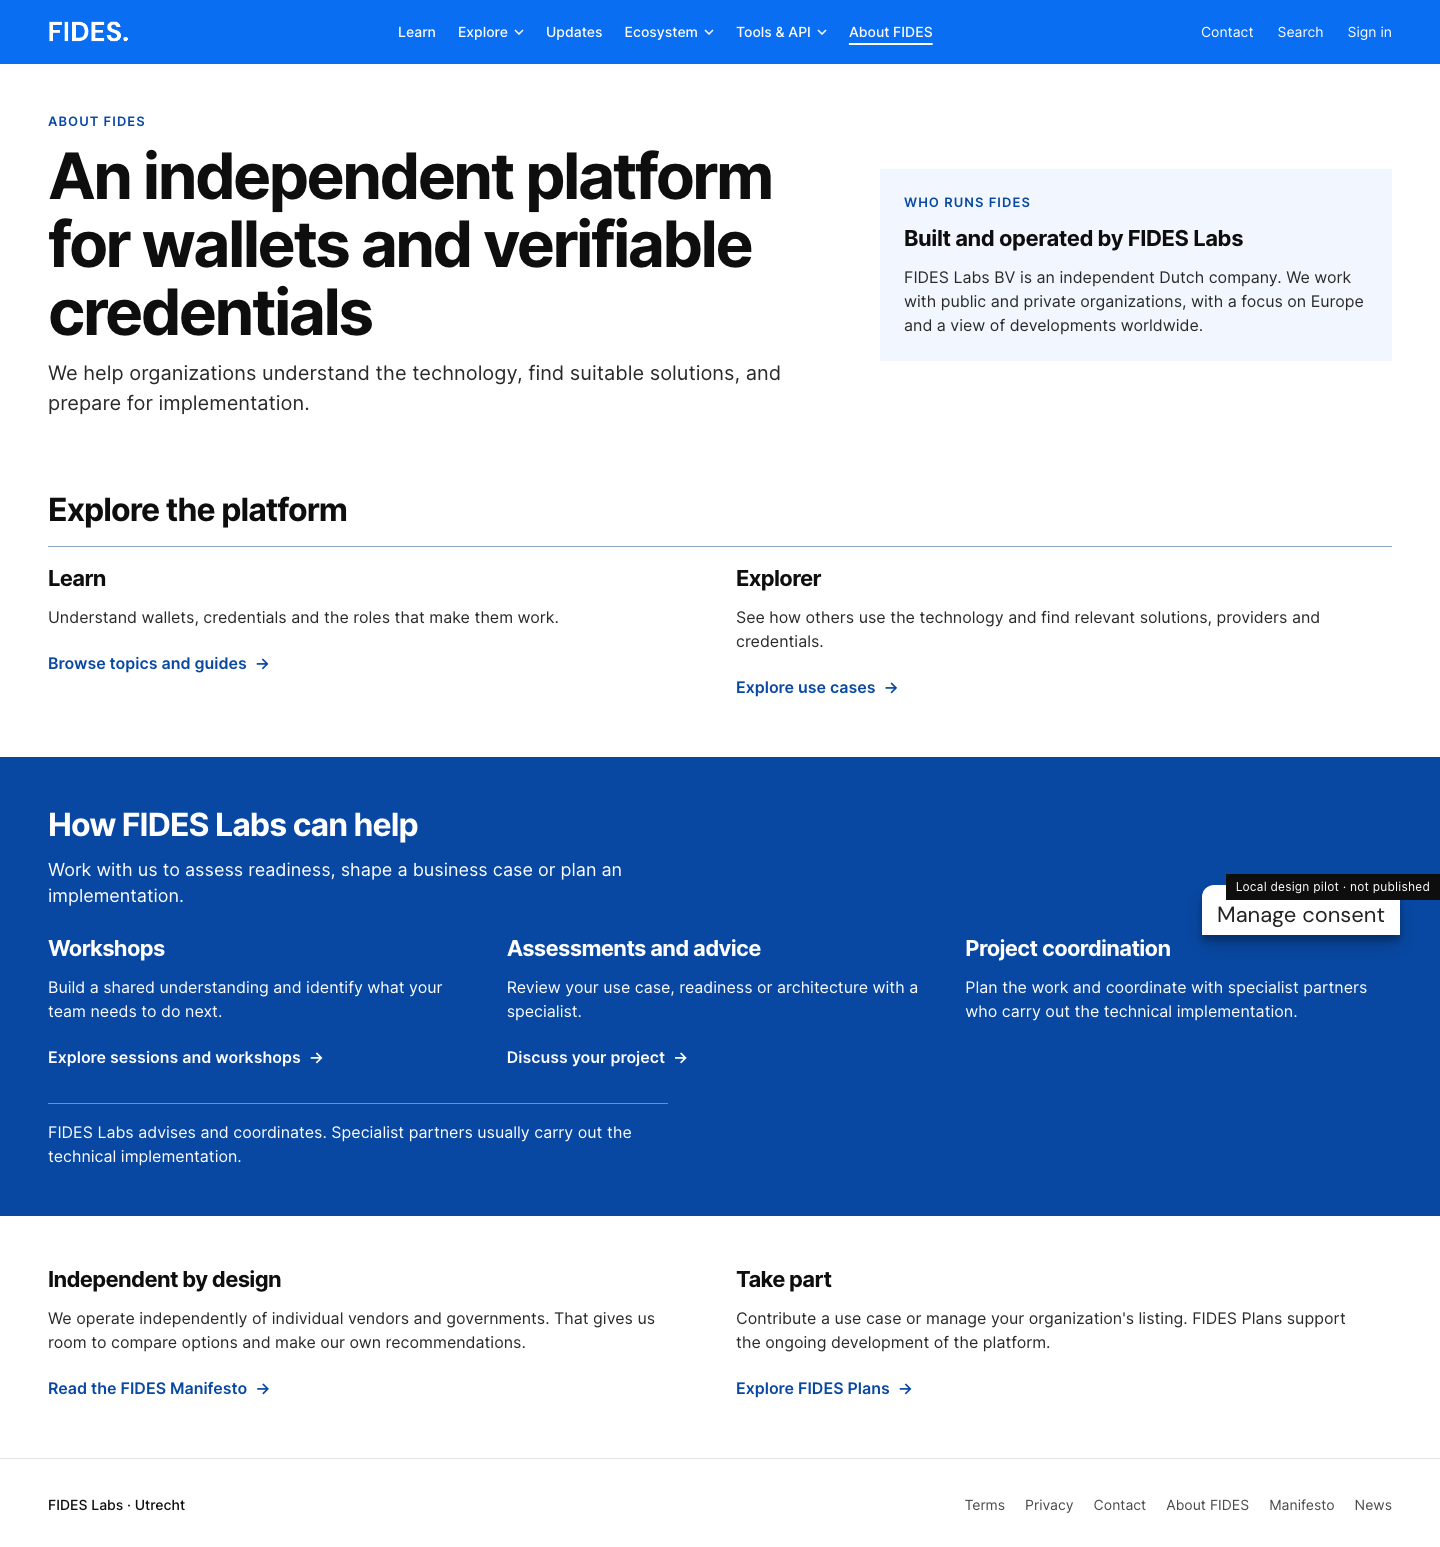
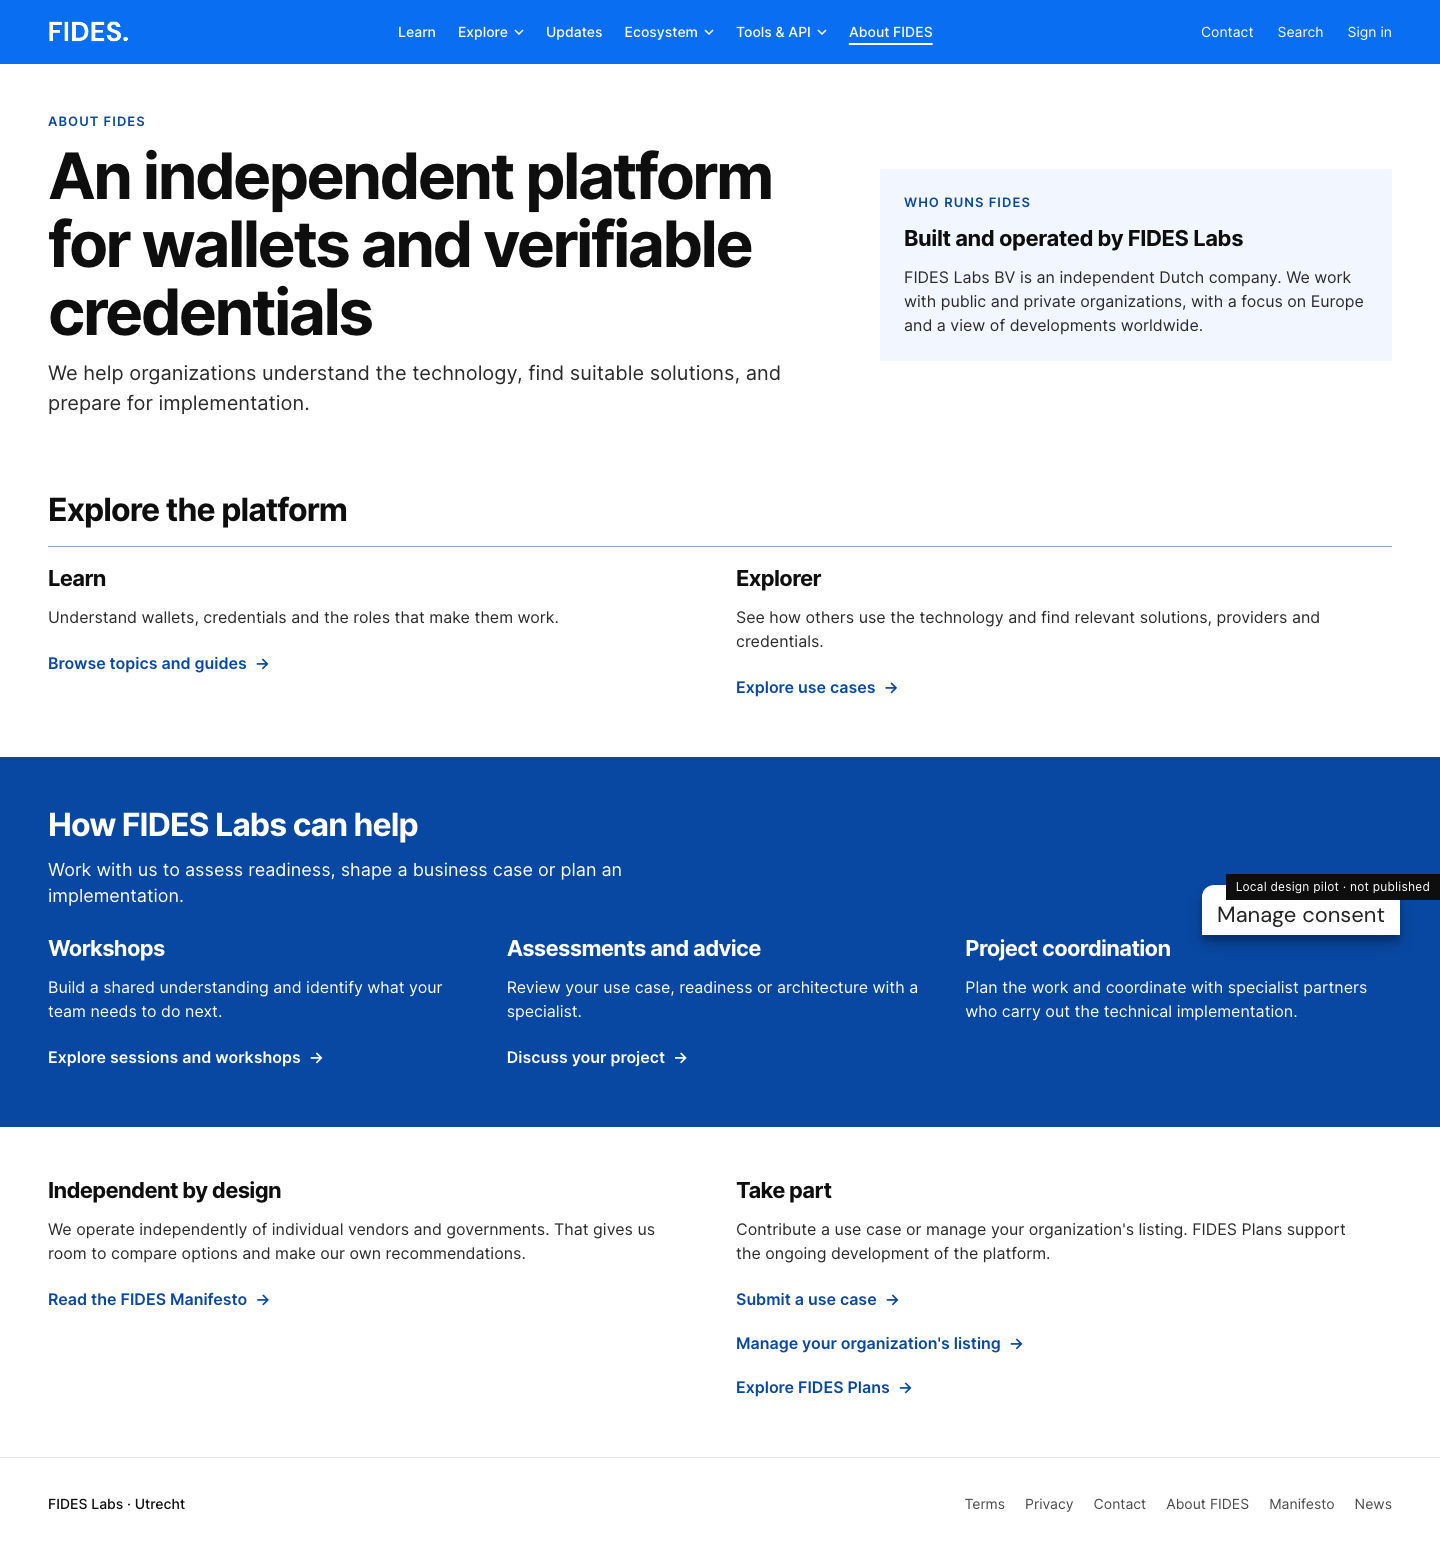
Pilot: About checks for compact title and Take part links

diff --git a/scripts/design-pilot/learn/README.md b/scripts/design-pilot/learn/README.md
@@ -244,5 +244,5 @@ Order under the hero: Learn strip, theme index, latest updates.
 ## About FIDES (Paper 27.1)
 
 - Page `/fides-design-pilot/about-fides/` with the shortcode `[fides_about]` (tiles `Fides_DS_About`, `assets/about.css`); the shell path `/about-fides/` (menu and footer) maps to it in the pilot guard.
-- Destinations go through the shell resolver: Topics & guides and Sessions & workshops and the use case overview are pilot pages; Contact, Manifesto and Plans have no pilot page and resolve to the live fides.community paths. A destination that resolves to nothing is omitted, not linked.
+- Destinations go through the shell resolver: Topics & guides and Sessions & workshops and the use case overview are pilot pages; Submit a use case and Manage your organization's listing go to the pilot forms. Contact, Manifesto and Plans have no pilot page and resolve to the live fides.community paths. A destination that resolves to nothing is omitted, not linked.
 - Tests: `tests/run-about-checks.sh` (1440, 390 and 320 px; screenshots in `screens/about-*.png`).
